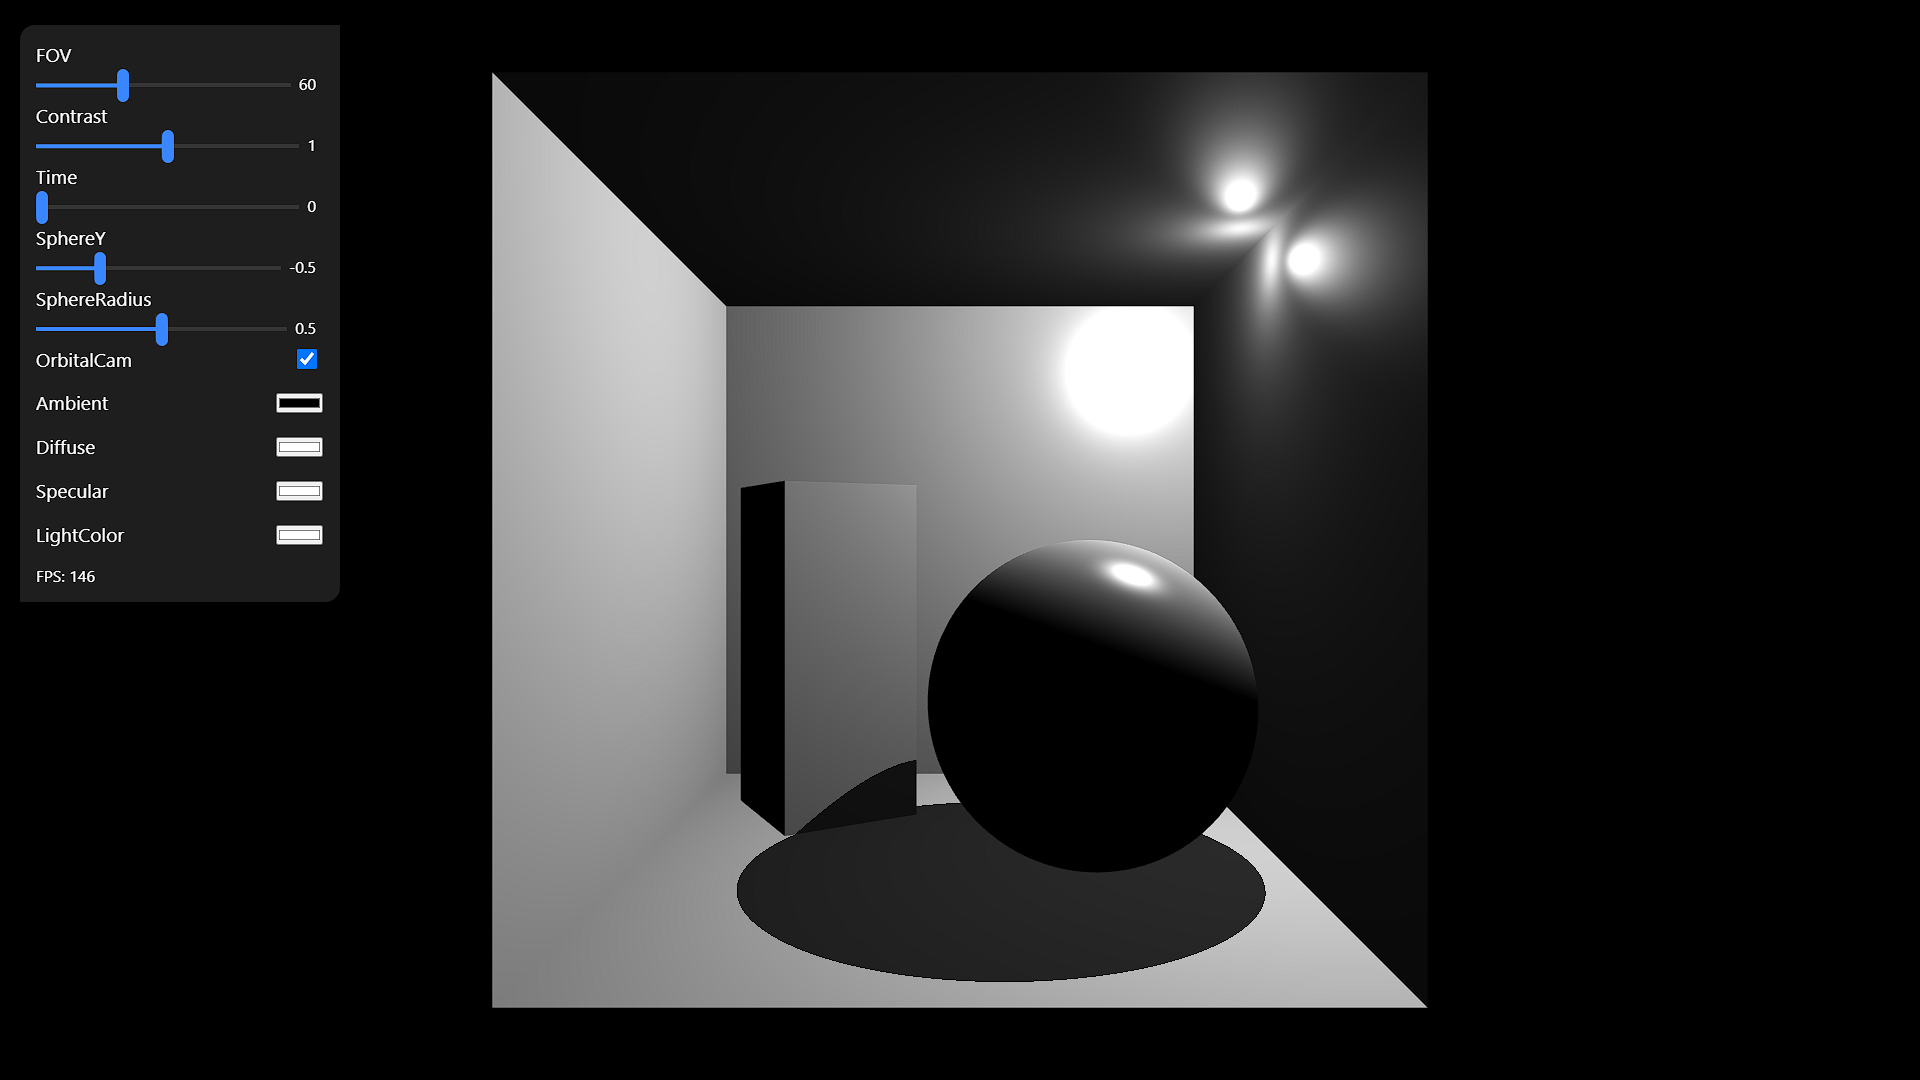
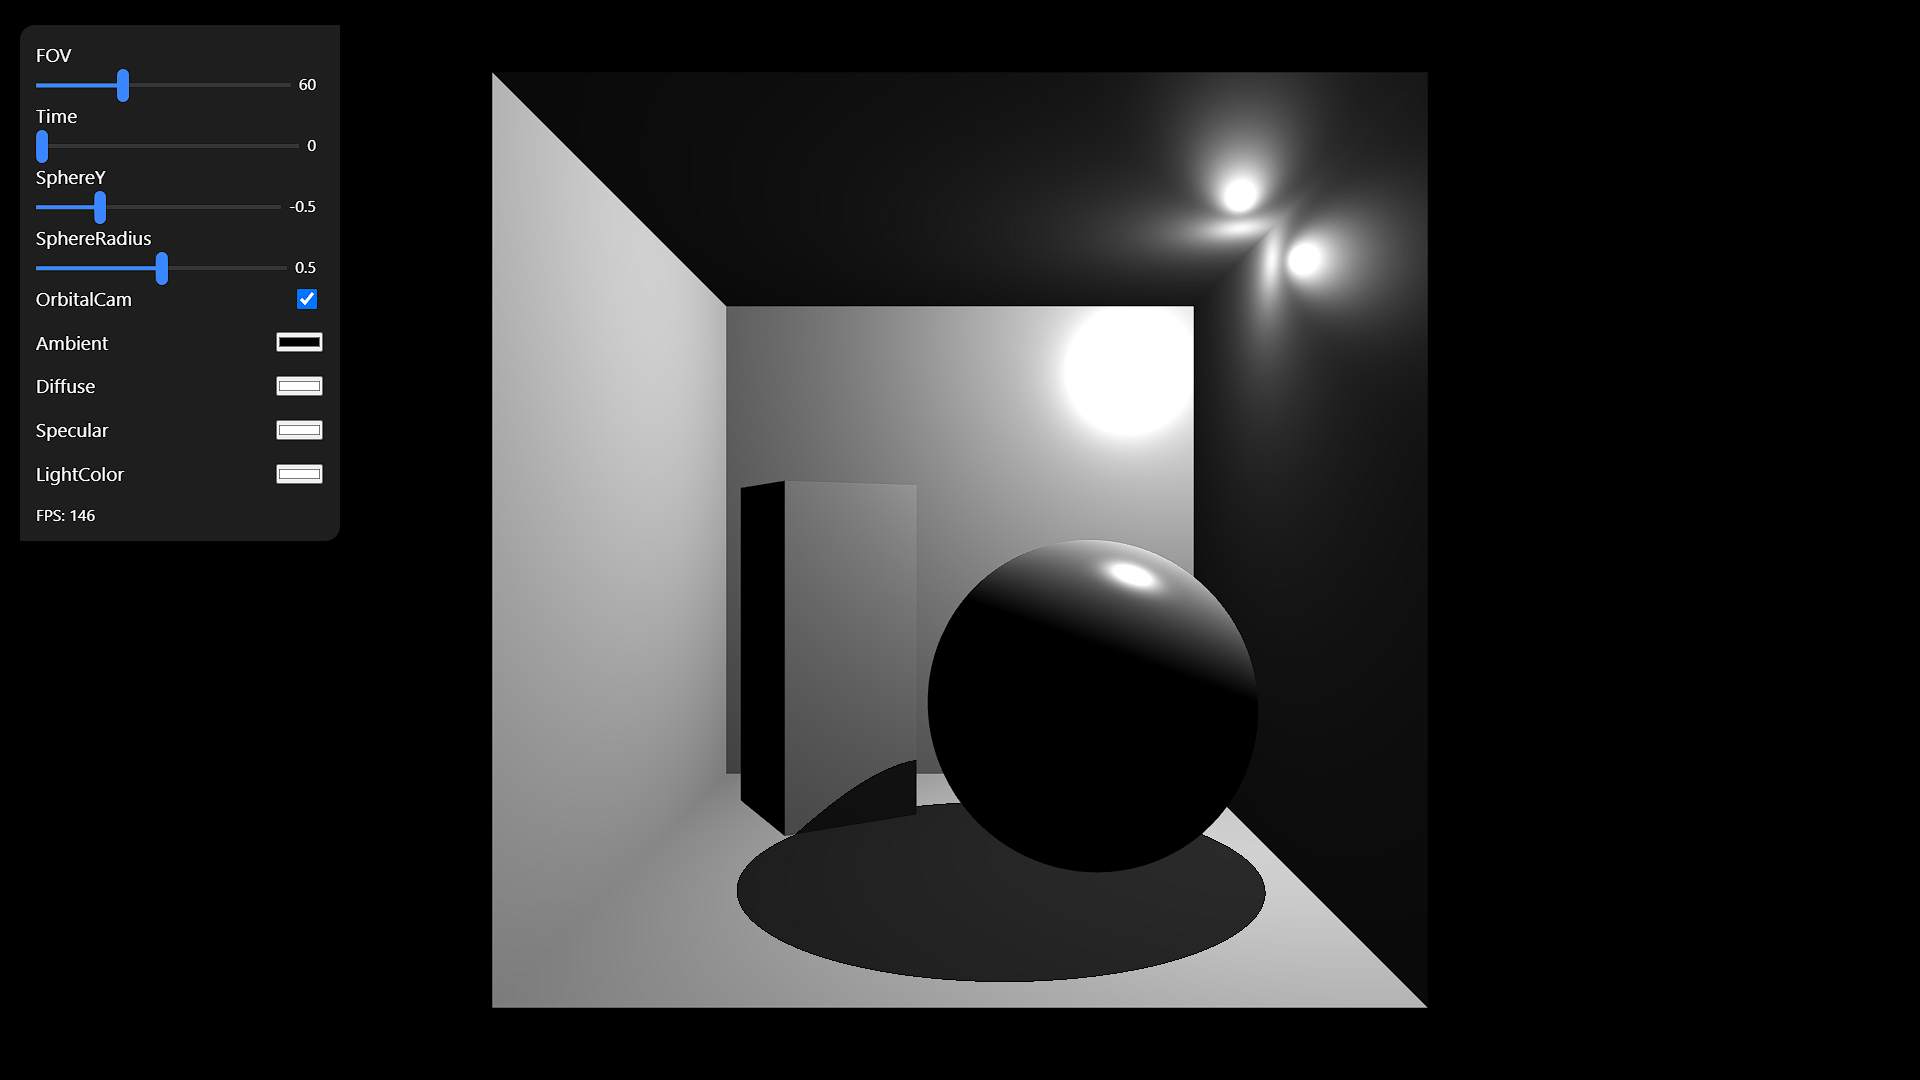
updated ui class methods

Changed region(s): [[0.0, 0.0917, 0.1875, 0.5806]]

diff --git a/src/scenes/cornellBox.js b/src/scenes/cornellBox.js
@@ -28,7 +28,6 @@ const boxMesh = new Box(GL, 1, 1, 1);
 const defaultTexture = new Texture(GL, 0);
 const boxTexture = new Texture(GL, 0, './assets/images/textures/cornellBox.jpg');
 
-
 // Variables for mouse movement
 let mousePos = [0, 0]; // Mouse position in normalized device coordinates, from -1 to +1
 let activeKeys = {};
@@ -36,37 +35,29 @@ let lastFrameTime = performance.now();
 let FPS = 60;
 let frameCount = 0; // Frame count for time uniform
 
-// Variables for UI sliders
-var variables = { // This dictionary object will be automaitcally updated by the UI
-    // variableName: [value, min, max, step]
-    FOV: [60, 0, 180, 1],
-    contrast: [1, 0, 2, 0.1],
-    time: [0, 0, 6.3, 0.01],
-    sphereY: [-0.5, -1, 1, 0.1],
-    sphereRadius: [0.5, 0.0001, 1, 0.01],
-};
 // Create UI
 const ui = new UI();
-ui.addSliders(variables);
-ui.addCheckbox('orbitalCam', myCamera.orbitCam);
+ui.addSlider('FOV', 60, 0, 180, 1);
+ui.addSlider('time', 0, 0, 6.3, 0.01);
+ui.addSlider('sphereY', -0.5, -1, 1, 0.1);
+ui.addSlider('sphereRadius', 0.5, 0.0001, 1, 0.01);
 ui.addColorPicker('ambient', [0.0, 0.0, 0.0]);
 ui.addColorPicker('diffuse', [1.0, 1.0, 1.0]);
 ui.addColorPicker('specular', [1.0, 1.0, 1.0]);
 ui.addColorPicker('lightColor', [1.0, 1.0, 1.0]);
-
+ui.addCheckbox('orbitalCam', myCamera.orbitCam);
 ui.elements['orbitalCam'].input.addEventListener('change', () => {
     console.log("Toggling Camera Mode");
     myCamera.toggleOrbitCam();
 });
-
 ui.addFPSCounter();
-
 ui.rack.addEventListener('mouseover', (event) => {
     document.removeEventListener('wheel', myCamera.wheelCameraListener);
 });
 ui.rack.addEventListener('mouseout', (event) => {
     document.addEventListener('wheel', myCamera.wheelCameraListener);
 });
+
 // Prevent the user from leaving the page
 window.addEventListener('beforeunload', function (e) {
     // e.preventDefault();
@@ -183,8 +174,8 @@ function drawFrame(shader) {
 
     // Sphere
     defaultTexture.bind();
-    modelMatrix = mat4.scale(variables.sphereRadius[0]);
-    modelMatrix = mat4.multiplyMat(mat4.translate(0.4, variables.sphereY[0], 0.1), modelMatrix);
+    modelMatrix = mat4.scale(ui.variables.sphereRadius);
+    modelMatrix = mat4.multiplyMat(mat4.translate(0.4, ui.variables.sphereY, 0.1), modelMatrix);
     shader.setUniform('uModelMatrix', modelMatrix, 'mat4');
     shader.setUniform('uNormalMatrix', mat3.modelToNormal(modelMatrix), 'mat3');
     shader.setUniform('receiveShadow', false, 'bool')
@@ -219,12 +210,12 @@ function renderLoop(shader) {
 
     // Update camera
     myCamera.update(mousePos, activeKeys);
-    myCamera.fov = variables.FOV[0] * Math.PI / 180;
+    myCamera.fov = ui.variables.FOV * Math.PI / 180;
 
     shader.use(); // Use the shader program
     // Set uniforms for time and aspect ratio
     shader.setUniform('uFrameCount', frameCount, 'uint');
-    shader.setUniform('uTime', variables.time[0], 'float');
+    shader.setUniform('uTime', ui.variables.time, 'float');
     shader.setUniform('uAspect', window.innerWidth / window.innerHeight, 'float');
     shader.setUniform('uResolution', [window.innerWidth, window.innerHeight], 'vec2')
     shader.setUniform('uMousePos', mousePos, 'vec2');
@@ -234,11 +225,11 @@ function renderLoop(shader) {
     shader.setUniform('uProjectionMatrix', myCamera.projectionMatrix, 'mat4');
     // Set the uniforms for the sphere and light
     const sphereData = {
-        center: { value: [0.4, variables.sphereY[0], 0.1], type: 'vec3' },
-        radius: { value: variables.sphereRadius[0], type: 'float' }
+        center: { value: [0.4, ui.variables.sphereY, 0.1], type: 'vec3' },
+        radius: { value: ui.variables.sphereRadius, type: 'float' }
     }
     const ligtData = {
-        position: { value: [0.9 * Math.cos(variables.time[0]), 0.9, 0.9 * Math.sin(variables.time[0])], type: 'vec3' },
+        position: { value: [0.9 * Math.cos(ui.variables.time), 0.9, 0.9 * Math.sin(ui.variables.time)], type: 'vec3' },
         color: { value: ui.variables.lightColor, type: 'vec3' },
         intensity: { value: 1.0, type: 'float' }
     }

diff --git a/src/scenes/planets.js b/src/scenes/planets.js
@@ -19,7 +19,7 @@ const myShader = new Shader(GL, './shaders/phong.vert',
     './shaders/phong.frag');
 
 // Create mesh
-const sphereMesh = new Sphere(GL, 50, 50);// './assets/models/ball.obj');
+const sphereMesh = new Sphere(GL, 30, 30);// './assets/models/ball.obj');
 const planeMesh = new Plane(GL, 1, 1);//, './assets/models/plane.obj');
 
 // Create textures
@@ -36,16 +36,11 @@ let lastFrameTime = performance.now();
 let FPS = 60;
 let frameCount = 0; // Frame count for time uniform
 
-// Variables for UI sliders
-var sliderVariables = { // This dictionary object will be automaitcally updated by the UI
-    // variableName: [value, min, max, step]
-    FOV: [60, 0, 180, 1],
-    timeDialation: [1, 0, 2, 0.01]
-};
-
 // Create UI
 const ui = new UI();
-ui.addSliders(sliderVariables);
+// params(variableName, initial_value, min, max, step)
+ui.addSlider('FOV', 60, 0, 180, 1);
+ui.addSlider('timeDialation', 1, 0, 2, 0.01);
 ui.addCheckbox('orbitalCam', myCamera.orbitCam);
 ui.elements['orbitalCam'].input.addEventListener('change', () => {
     console.log("Toggling Camera Mode");
@@ -157,7 +152,6 @@ function setupPointerLock(canvas) {
 // Draw a single frame
 function drawFrame(shader) {
     // Clear the canvas
-    // GL.clearColor(0, 0, 0, 1.0);
     GL.clearColor(0.2, 0.5, 0.3, 1.0);
     GL.clear(GL.COLOR_BUFFER_BIT | GL.DEPTH_BUFFER_BIT);
 
@@ -185,9 +179,9 @@ function drawFrame(shader) {
     // Earth
     earthTexture.bind();
     modelMatrix = mat4.scale(0.5, 0.5, 0.5);
-    modelMatrix = mat4.multiplyMat(mat4.rotateY(sliderVariables.timeDialation[0] * performance.now() / (1000)), modelMatrix);
+    modelMatrix = mat4.multiplyMat(mat4.rotateY(ui.variables.timeDialation * performance.now() / (1000)), modelMatrix);
     modelMatrix = mat4.multiplyMat(mat4.translate(0, 0, 5), modelMatrix);
-    modelMatrix = mat4.multiplyMat(mat4.rotateY(sliderVariables.timeDialation[0] * performance.now() / (365.25 * 1000)), modelMatrix);
+    modelMatrix = mat4.multiplyMat(mat4.rotateY(ui.variables.timeDialation * performance.now() / (365.25 * 1000)), modelMatrix);
     shader.setUniform('uModelMatrix', modelMatrix, 'mat4');
     shader.setUniform('uNormalMatrix', mat3.modelToNormal(modelMatrix), 'mat3');
     sphereMesh.draw();
@@ -195,9 +189,9 @@ function drawFrame(shader) {
     // Moon
     moonTexture.bind();
     modelMatrix = mat4.scale(0.2, 0.2, 0.2);
-    modelMatrix = mat4.multiplyMat(mat4.rotateY(sliderVariables.timeDialation[0] * performance.now() / (1000)), modelMatrix);
+    modelMatrix = mat4.multiplyMat(mat4.rotateY(ui.variables.timeDialation * performance.now() / (1000)), modelMatrix);
     modelMatrix = mat4.multiplyMat(mat4.translate(0, 0, 5), modelMatrix);
-    modelMatrix = mat4.multiplyMat(mat4.rotateY(sliderVariables.timeDialation[0] * performance.now() / (365.25 * 1000)), modelMatrix);
+    modelMatrix = mat4.multiplyMat(mat4.rotateY(ui.variables.timeDialation * performance.now() / (365.25 * 1000)), modelMatrix);
     const d = mat4.multiplyVec(modelMatrix, [0, 0, 4, 0]);
     modelMatrix = mat4.multiplyMat(mat4.translate(d[0], d[1], d[2]), modelMatrix);
     // modelMatrix = mat4.multiplyMat(mat4.rotateY(Math.PI), modelMatrix);
@@ -224,13 +218,13 @@ function renderLoop(shader) {
 
     // Update camera
     myCamera.update(mousePos, activeKeys);
-    myCamera.fov = sliderVariables.FOV[0] * Math.PI / 180;
+    myCamera.fov = ui.variables.FOV * Math.PI / 180;
 
     shader.use(); // Use the shader program
 
     // Set uniforms for time and aspect ratio
     shader.setUniform('uFrameCount', frameCount, 'uint');
-    shader.setUniform('uTime', sliderVariables.timeDialation[0] * performance.now() / 1000, 'float');
+    shader.setUniform('uTime', ui.variables.timeDialation * performance.now() / 1000, 'float');
     shader.setUniform('uAspect', window.innerWidth / window.innerHeight, 'float');
     shader.setUniform('uResolution', [window.innerWidth, window.innerHeight], 'vec2')
     shader.setUniform('uMousePos', mousePos, 'vec2');

diff --git a/src/modules/ui.js b/src/modules/ui.js
@@ -36,33 +36,32 @@ export class UI {
         // });
     }
 
-    uiMouseClick(event) {
-        // https://stackoverflow.com/questions/3234256/find-mouse-position-relative-to-element
-        let rect = event.target.getBoundingClientRect();
-        let x = event.clientX - rect.left; //x position within the element.
-        let y = event.clientY - rect.top;  //y position within the element.
-        // if (y < 10) {
-        this.clicked = true;
-        // }
-    }
+    // uiMouseClick(event) {
+    //     let rect = event.target.getBoundingClientRect();
+    //     let x = event.clientX - rect.left; //x position within the element.
+    //     let y = event.clientY - rect.top;  //y position within the element.
+    //     // if (y < 10) {
+    //     this.clicked = true;
+    //     // }
+    // }
 
-    uiDrag(event) {
-        if (this.clicked) {
-            this.rack.style.top = event.clientY - 10 + 'px';
-            this.rack.style.left = event.clientX - 200 + 'px';
-        }
-    }
+    // uiDrag(event) {
+    //     if (this.clicked) {
+    //         this.rack.style.top = event.clientY - 10 + 'px';
+    //         this.rack.style.left = event.clientX - 200 + 'px';
+    //     }
+    // }
 
-    addSliders(map) {
-        this.variables = map; // Keep a reference to the variables dictionary
-        for (let key in map) {
-            const params = map[key]; // list of [value, min, max, step]
-            this.#addSlider(key, params[0], params[1], params[2], params[3]);
-        }
-    }
+    // addSliders(map) {
+    //     // this.variables = map; // Keep a reference to the variables dictionary
+    //     for (let key in map) {
+    //         const params = map[key]; // list of [value, min, max, step]
+    //         this.addSlider(key, params[0], params[1], params[2], params[3]);
+    //     }
+    // }
 
-    #addSlider(variableName, value, min, max, step) {
-        // this.variables[variableName] = value;
+    addSlider(variableName, value, min, max, step) {
+        this.variables[variableName] = value;
 
         // Title
         let titleDiv = document.createElement('div');
@@ -94,7 +93,7 @@ export class UI {
 
         // Add event listener to update output text
         input.addEventListener('input', () => {
-            this.variables[variableName][0] = Number(input.value);
+            this.variables[variableName] = Number(input.value);
             output.innerHTML = Number(input.value).toFixed(1);
         });
 

diff --git a/src/index.html b/src/index.html
@@ -5,7 +5,7 @@
         <link rel="icon" type="image/x-icon" href="assets/images/icons/opengl.ico">
         <meta charset="utf-8" />
         <link rel="stylesheet" href="style.css" />
-        <script type="module" src="scenes/cornellBox.js" defer></script>
+        <script type="module" src="scenes/planets.js" defer></script>
     </head>
     <body>
         <img id="crosshair" src="assets/images/crosshair.png" alt="Crosshair"/>
